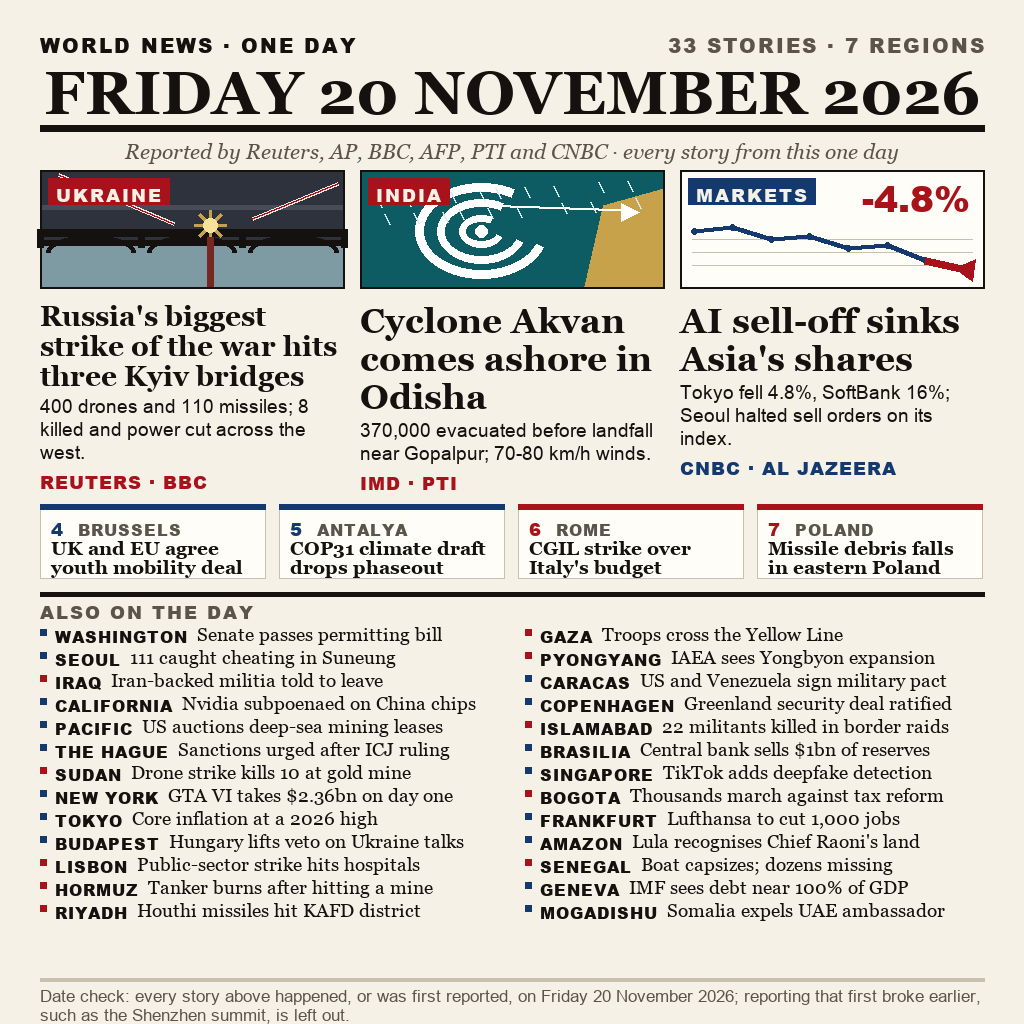
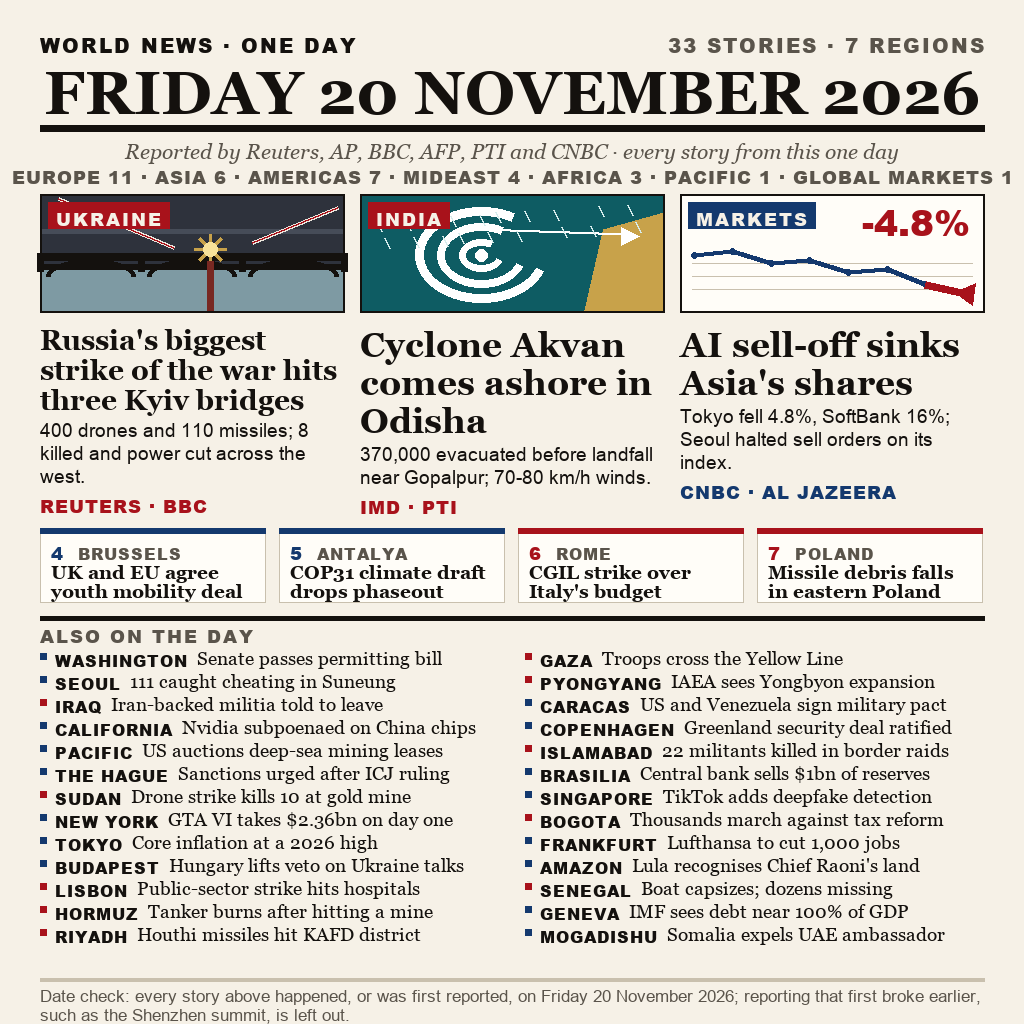
Show the day's reach: region counts under the date, each one traceable to a labelled story

Changed region(s): [[0.0, 0.1562, 0.9688, 0.9375]]

diff --git a/tools/render.py b/tools/render.py
@@ -280,7 +280,13 @@ def build() -> Image.Image:
     d.text(((W - text_w(d, strap, f_strap)) / 2, date_bottom + 19), strap,
            font=f_strap, fill=MUTED)
 
-    top = date_bottom + 50
+    counts = ("EUROPE 11 · ASIA 6 · AMERICAS 7 · MIDEAST 4 · AFRICA 3 · "
+              "PACIFIC 1 · GLOBAL MARKETS 1")
+    f_counts = font(SANS_BK, 18)
+    draw_tracked(d, ((W - text_w(d, counts, f_counts, track=1)) / 2,
+                     date_bottom + 44), counts, f_counts, MUTED, track=1)
+
+    top = date_bottom + 74
 
     # ---- three splashes ------------------------------------------
     ART_H = 118
